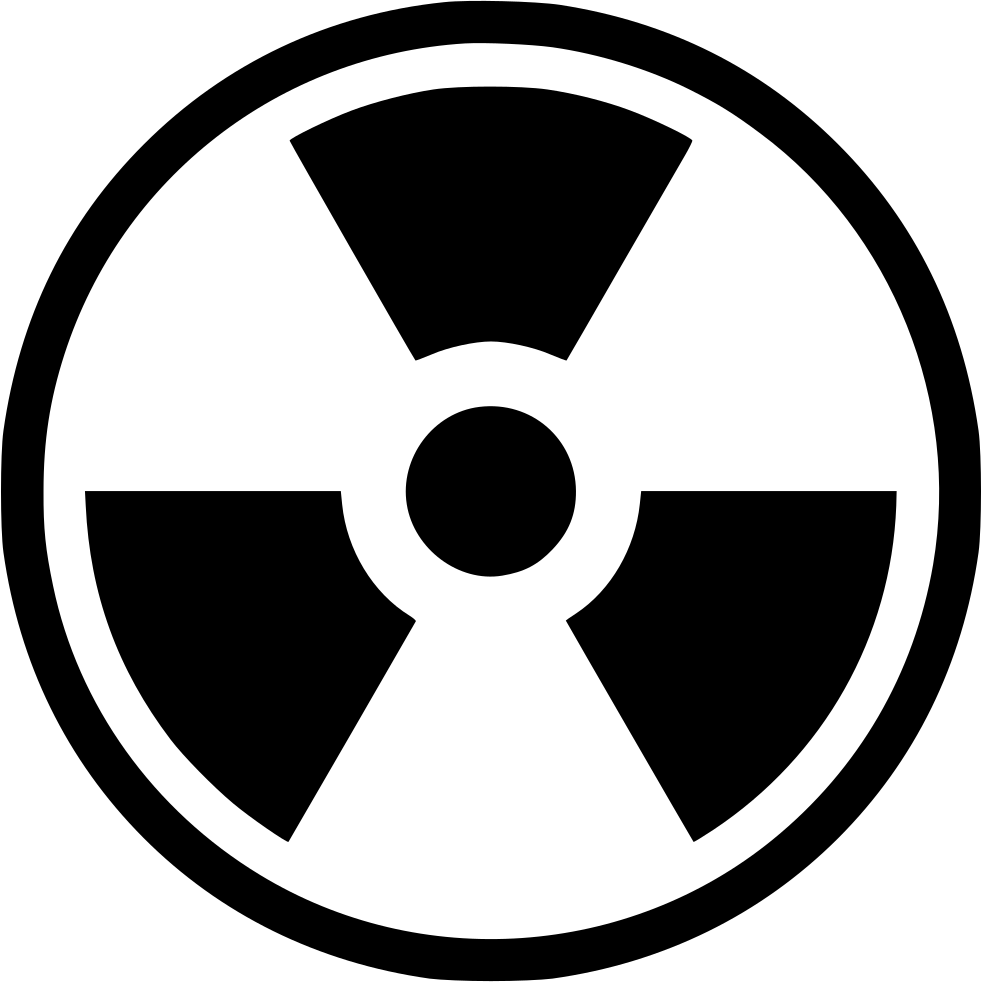
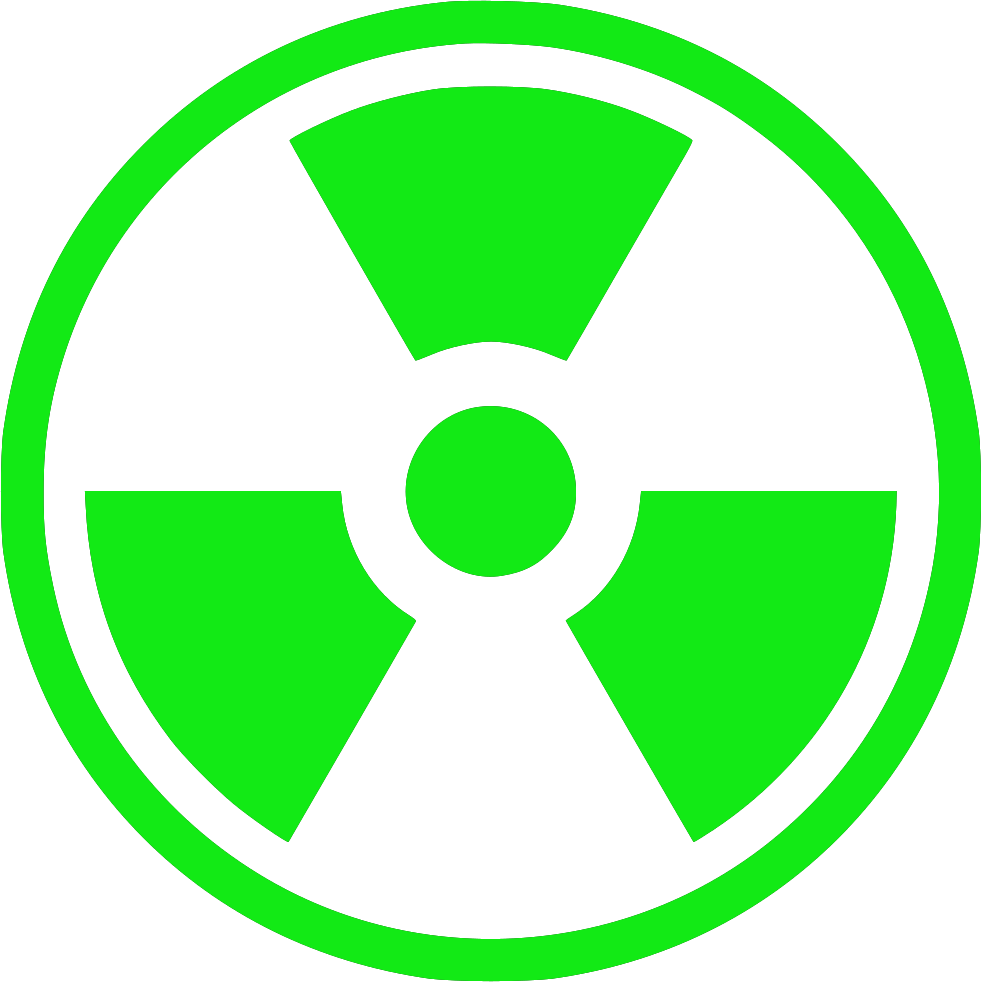
Update filter images

diff --git a/css/pipboy.app.css b/css/pipboy.app.css
@@ -150,7 +150,7 @@ ul li.nav-item a.nav-link, ul li.navbar-item.active a.nav-link{
   border: 2px solid;
     max-height: 300px;
     margin-top: 5%;
- /* filter: grayscale(1) sepia(100%) hue-rotate(55deg) saturate(7) brightness(1) contrast(0.9);*/
+  filter: grayscale(1) sepia(100%) hue-rotate(55deg) saturate(8) brightness(1) contrast(0.7);
 }
 .text-image{
     margin-top: 8%;
@@ -282,4 +282,7 @@ div.row.stat-numbers{
     div.row.stat-numbers{
       display: none;
     }
+  }
+  img.img-responsive{
+    filter: grayscale(1) sepia(100%) hue-rotate(55deg) saturate(8) brightness(1) contrast(0.9);
   }
